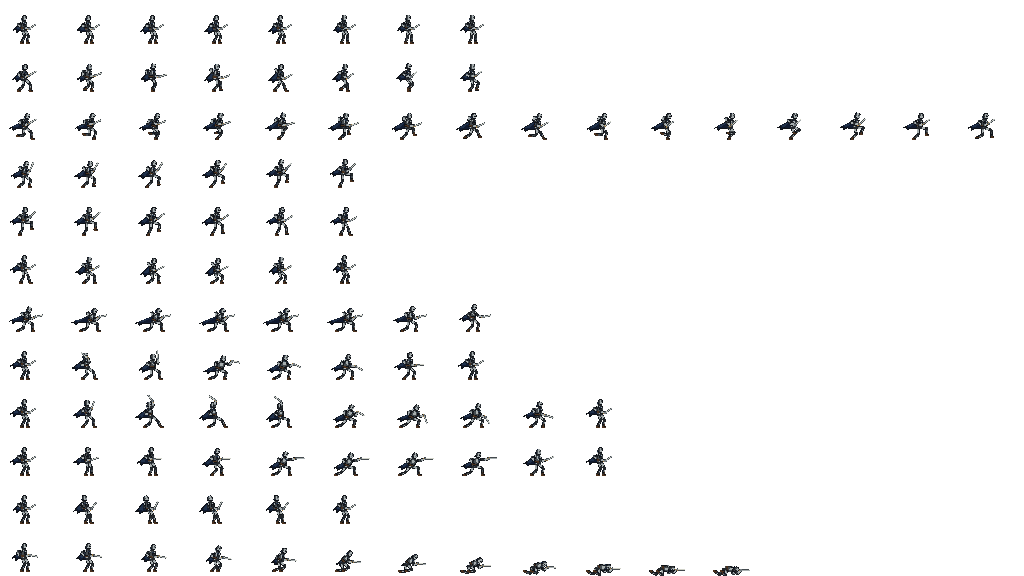
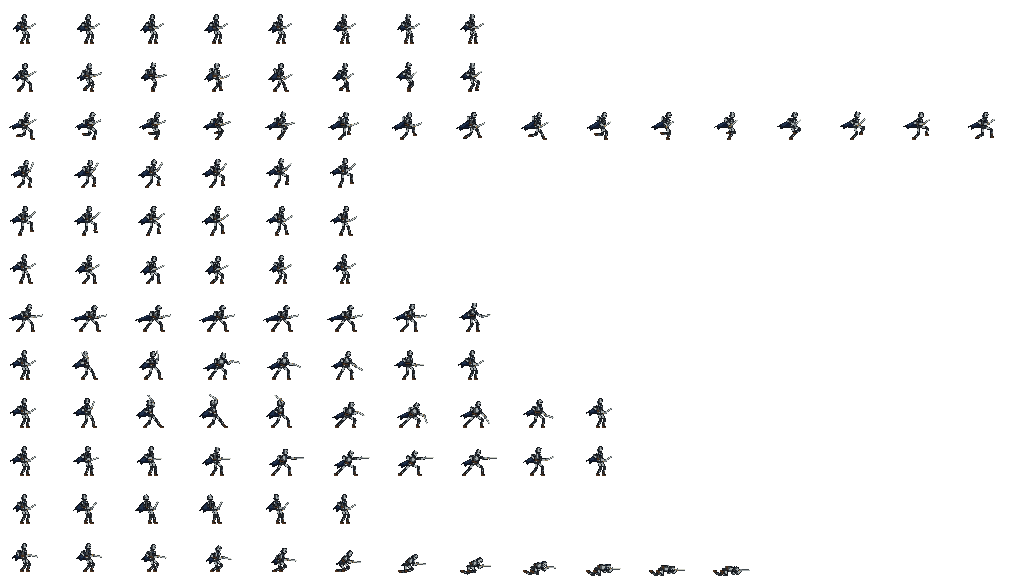
feat: add blade-aligned pixel sword trails and straighter knight legs

diff --git a/Tools/bake_knight_motion.py b/Tools/bake_knight_motion.py
@@ -13,6 +13,7 @@ import tempfile
 ROOT=Path(__file__).resolve().parents[1]
 ART=ROOT/'Art/knight/rig'
 OUT=ROOT/'Assets/Resources/Eclipse/knight_motion.png'
+LEG_BONE=7.5
 CLIPS=[('idle',0,8,.96),('walk',16,8,.60),('run',32,16,.428571),('jump',48,6,.52),('fall',64,6,.65),('land',80,6,.12),('dash',96,8,.15),('weak_slash',112,8,.23),('strong_slash',128,10,.34),('thrust',144,10,.42),('hurt',160,6,.23),('death',176,12,.90)]
 PALETTE=['#101318','#23272b','#444a4e','#737b80','#a8afb0','#d0d2c8','#111b30','#20314a','#32465c','#49301d','#75512c','#a17b40']
 def lerp(a,b,t):return a+(b-a)*t
@@ -34,38 +35,38 @@ def foot(phase,stride,lift,contact=.5):
     return (24+lerp(-stride/2,stride/2,smooth(t)),43-lift*math.sin(math.pi*t))
 
 def pose(name,t):
-    hip=[24.,30.];lean=0.;twist=0.;wind=0.;sword=-35.;near=(29.,29.);far=(22.,27.)
+    hip=[24.,29.];lean=0.;twist=0.;wind=0.;sword=-35.;near=(29.,28.);far=(22.,26.)
     feet=[(21.,43.),(27.,43.)]
     if name=='idle':hip[1]+=.25*math.sin(t*math.tau);wind=.5*math.sin(t*math.tau)
     elif name in ('run','walk'):
         run=name=='run';stride=16 if run else 12;contact=.4 if run else .5
         feet=[foot(t+.5,stride,6 if run else 2,contact),foot(t,stride,6 if run else 2,contact)]
-        hip[1]=(31.7 if run else 30.8)+.35*math.cos(t*math.tau*2)
+        hip[1]=(30.7 if run else 29.8)+.35*math.cos(t*math.tau*2)
         if run:hip[0]+=.6+1.5*math.sin(t*math.tau*2)
         lean=(12 if run else 4)+2*math.sin(t*math.tau*2);twist=.65*math.sin(t*math.tau);wind=6 if run else 1
         near=(29+2*math.sin(t*math.tau),29-1.5*math.cos(t*math.tau));far=(21-2*math.sin(t*math.tau),27+2*math.cos(t*math.tau));sword=-30+12*math.sin(t*math.tau)
     elif name in ('jump','fall'):
         if name=='jump':
             # Push off with the trailing leg long; only the leading knee lifts.
-            hip[1]=lerp(32,30,t);feet=[(lerp(18,19,t),43),(lerp(29,31,t),lerp(43,37,t))]
+            hip[1]=lerp(31,29,t);feet=[(lerp(18,19,t),43),(lerp(29,31,t),lerp(43,39,t))]
             lean=lerp(12,5,t);near=(30,lerp(26,25,t));sword=lerp(-65,-45,t)
         else:
             # Continue the apex silhouette, then reach for a wide landing.
-            feet=[(lerp(19,20,t),43),(lerp(31,30,t),lerp(37,43,t))]
+            feet=[(lerp(19,20,t),43),(lerp(31,30,t),lerp(39,43,t))]
             lean=lerp(5,10,t);near=(30,lerp(25,29,t));sword=lerp(-45,-30,t)
         wind=4;far=(22,27)
     elif name=='land':
-        squash=math.sin(math.pi*t);hip[1]+=3*squash;lean=10*squash;wind=3*(1-t);near=(29,29+squash)
+        squash=math.sin(math.pi*t);hip[1]+=2*squash;lean=10*squash;wind=3*(1-t);near=(29,28+squash)
         feet=[(lerp(20,21,smooth(t))-squash,43),(lerp(30,27,smooth(t))+squash,43)];sword=-35+10*squash
     elif name=='dash':
         drive=sample([(0,.75),(.16,1),(.72,1),(1,.3)],t)
-        hip=[24+2*drive,30+4*drive];lean=24*drive;wind=11*drive
+        hip=[24+2*drive,29+2*drive];lean=24*drive;wind=11*drive
         feet=[(lerp(21,16,drive),43),(lerp(27,34,drive),43)];near=(35,29);far=(24,29);sword=-12
     elif name in ('weak_slash','strong_slash','thrust'):
         if name=='weak_slash':
             weight=sample([(0,0),(.2,1),(.65,1),(1,0)],t)
             hip[0]+=sample([(0,0),(.18,-1),(.43,3),(.68,2),(1,0)],t)
-            hip[1]+=sample([(0,0),(.18,2),(.43,4),(.68,3),(1,0)],t)
+            hip[1]+=sample([(0,0),(.18,1),(.43,2),(.68,1),(1,0)],t)
             lean=sample([(0,0),(.18,-8),(.43,18),(.68,10),(1,0)],t)
             twist=sample([(0,0),(.18,-1.3),(.43,1.5),(.68,.8),(1,0)],t)
             near=(sample([(0,29),(.18,23),(.43,40),(.68,36),(1,29)],t),sample([(0,29),(.18,21),(.43,25),(.68,30),(1,29)],t))
@@ -74,7 +75,7 @@ def pose(name,t):
         elif name=='strong_slash':
             weight=sample([(0,0),(.22,1),(.8,1),(1,0)],t)
             hip[0]+=sample([(0,0),(.30,-1),(.61,4),(.8,3),(1,0)],t)
-            hip[1]+=sample([(0,0),(.30,3),(.61,5),(.8,4),(1,0)],t)
+            hip[1]+=sample([(0,0),(.30,1),(.61,3),(.8,2),(1,0)],t)
             lean=sample([(0,0),(.30,-10),(.42,-10),(.61,24),(.8,14),(1,0)],t)
             twist=sample([(0,0),(.30,-1.4),(.61,1.6),(.8,1),(1,0)],t)
             near=(sample([(0,29),(.30,24),(.42,24),(.61,41),(.8,37),(1,29)],t),sample([(0,29),(.30,15),(.42,15),(.61,31),(.8,33),(1,29)],t))
@@ -83,7 +84,7 @@ def pose(name,t):
         else:
             drive=sample([(0,0),(.24,0),(.52,1),(.72,1),(1,0)],t)
             hip[0]+=sample([(0,0),(.24,-1),(.52,3),(.72,3),(1,0)],t)
-            hip[1]+=5*drive;lean=18*drive;twist=.7*drive
+            hip[1]+=3*drive;lean=18*drive;twist=.7*drive
             near=(sample([(0,29),(.24,25),(.52,44.5),(.72,44.5),(1,29)],t),sample([(0,29),(.24,27),(.52,26),(.72,26),(1,29)],t));sword=sample([(0,-35),(.24,0),(.52,0),(.72,0),(1,-35)],t)
             feet=[(lerp(21,15,drive),43),(lerp(27,35,drive),43)]
         wind=3+3*max(0,twist);far=(hip[0]-2-twist*.5,hip[1]-3)
@@ -92,6 +93,10 @@ def pose(name,t):
     elif name=='death':
         d=smooth(t);hip=[24-3*d,30+11*d];lean=90*d;feet=[(lerp(21,10,d),43),(lerp(27,17,d),43)]
         near=(lerp(30,37,d),lerp(27,42,d));far=(lerp(20,32,d),lerp(28,42,d));wind=1-d;sword=12*(1-d)
+    # Keep planted feet connected while straightening the legs as far as their reach allows.
+    for index,ankle in enumerate(feet):
+        dx=ankle[0]-hip[0]-(-1 if index==0 else 1)
+        hip[1]=max(hip[1],ankle[1]-math.sqrt(max(0,(2*LEG_BONE)**2-dx*dx)))
     angle=math.radians(lean);chest=(hip[0]+math.sin(angle)*8+twist*.4,hip[1]-math.cos(angle)*8)
     head=(chest[0]+math.sin(angle)*3,chest[1]-math.cos(angle)*4)
     shoulder=(chest[0]+1+twist*1.3,chest[1]+1-abs(twist)*.4)
@@ -117,7 +122,7 @@ def svg_frame(p):
     parts.append('<polygon points="'+' '.join(f'{x:.2f},{y:.2f}' for x,y in points)+'" fill="#111b30" stroke="#101318" stroke-width="1"/>')
     parts.append(f'<path d="M{c[0]-4:.2f},{c[1]+2:.2f} L{tailx:.2f},{taily-4:.2f} L{tailx+4:.2f},{taily-3:.2f} L{c[0]-2:.2f},{c[1]+1:.2f} Z" fill="#20314a"/>')
     def leg(index):
-        hip=(h[0]+(-1 if index==0 else 1),h[1]);ankle=p['feet'][index];knee=ik(hip,ankle,7,7)
+        hip=(h[0]+(-1 if index==0 else 1),h[1]);ankle=p['feet'][index];knee=ik(hip,ankle,LEG_BONE,LEG_BONE)
         return joint(hip)+segment('forearm',hip,knee,3)+joint(knee)+segment('shin',knee,ankle,3)+image('boot',ankle[0]-2,ankle[1]-1,5,2)
     parts.append(leg(0));fs=(c[0]-2,c[1]+1);elbow=ik(fs,p['far'],5,5,-1)
     parts.append(segment('upper_arm',fs,elbow,2.8)+segment('forearm',elbow,p['far'],2.8))
@@ -129,6 +134,53 @@ def svg_frame(p):
     return '<svg xmlns="http://www.w3.org/2000/svg" xmlns:xlink="http://www.w3.org/1999/xlink" width="64" height="48" viewBox="0 0 64 48">'+''.join(parts).replace('href=','xlink:href=')+'</svg>'
 
 def run(*args):subprocess.run(['convert',*map(str,args)],check=True,stdout=subprocess.DEVNULL)
+def trail_mask(name,t):
+    """Separate pixel ribbon swept from the exact sword poses used by the actor."""
+    from PIL import Image,ImageDraw
+    im=Image.new('L',(128,96));d=ImageDraw.Draw(im);ox,oy=32,24
+    begin,end,stop={'weak_slash':(.20,.50,.80),'strong_slash':(.43,.66,.88),'thrust':(.36,.63,.85)}.get(name,(1,1,0))
+    if not begin<t<stop:return im,0
+    fade=round(255*(1-smooth(max(0,(t-end)/(stop-end))))) if t>end else 255
+    tip_time=min(t,end)
+    def point(p,length):
+        a=math.radians(p['sword']);return (round(ox+p['near'][0]+length*math.cos(a)),round(oy+p['near'][1]+length*math.sin(a)))
+    if name=='thrust':
+        p=pose(name,tip_time);x,y=point(p,9);extension=3+9*smooth((tip_time-begin)/(end-begin))
+        d.polygon([(x-3,y-2),(x+extension-3,y-2),(x+extension+2,y),(x+extension-3,y+2),(x-3,y+2)],fill=1)
+        d.polygon([(x-2,y-1),(x+extension-2,y-1),(x+extension,y),(x+extension-2,y+1),(x-2,y+1)],fill=2)
+        d.line([(x-1,y),(round(x+extension-1),y)],fill=3,width=1)
+    else:
+        start=max(begin,tip_time-(.18 if name=='weak_slash' else .20))
+        inner,outer=(7.5,10) if name=='weak_slash' else (5.5,10.5)
+        previous=pose(name,start)
+        for i in range(1,33):
+            p=pose(name,lerp(start,tip_time,i/32));shade=1 if i<14 else 2 if i<28 else 3
+            d.polygon([point(previous,inner),point(previous,outer),point(p,outer),point(p,inner)],fill=shade)
+            previous=p
+    return im,fade
+
+def bake_trails(metadata,review):
+    from PIL import Image
+    spans=[];frames=[(0,0,0)]*192;atlas=Image.new('RGBA',(128*16,96*12))
+    palette=[(0,0,0,0),(54,93,112,95),(123,164,173,165),(220,231,219,235)]
+    for clip in metadata:
+        if clip['name'] not in ('weak_slash','strong_slash','thrust'):continue
+        for i in range(clip['count']):
+            mask,alpha=trail_mask(clip['name'],i/(clip['count']-1));start=len(spans)
+            for y in range(mask.height):
+                x=0
+                while x<mask.width:
+                    shade=mask.getpixel((x,y));right=x+1
+                    while right<mask.width and mask.getpixel((right,y))==shade:right+=1
+                    if shade:spans.append((x-32,y-24,right-x,shade))
+                    x=right
+            index=clip['start']+i;frames[index]=(start,len(spans)-start,alpha)
+            rgba=Image.new('RGBA',mask.size);rgba.putdata([(*palette[v][:3],round(palette[v][3]*alpha/255)) for v in mask.get_flattened_data()]);atlas.paste(rgba,(index%16*128,index//16*96))
+    header='#pragma once\nnamespace eclipse {\nstruct SwordTrailSpan{int x,y,width,shade;};\nstruct SwordTrailFrame{int start,count,alpha;};\nconstexpr SwordTrailFrame swordTrailFrames[]={\n'
+    header+=''.join('{%d,%d,%d},'%v+('\n' if i%8==7 else '') for i,v in enumerate(frames))+'};\nconstexpr SwordTrailSpan swordTrailSpans[]={\n'
+    header+=''.join('{%d,%d,%d,%d},'%v+('\n' if i%6==5 else '') for i,v in enumerate(spans))+'};\n}\n'
+    (ROOT/'native-engine/src/sword_trails.hpp').write_text(header);atlas.save(review/'sword_fx.png')
+    print('Baked separate sword trails:',len(spans),'pixel spans.')
 def bake():
     import cairosvg
     for name in ('helmet','torso','upper_arm','forearm','shin','boot','sword'):
@@ -164,9 +216,10 @@ def bake():
     header+=''.join('    {%d,%d,%.6ff,%.6ff,%.6ff},\n'%(*mapping[n][1:],{'weak_slash':.43,'strong_slash':.61,'thrust':.52}.get(n,.5),{'run':120,'walk':72}.get(n,0)) for n in states)
     header+='};\nconstexpr int motionWidth=64,motionHeight=48,motionColumns=16,motionRows=12,motionPivotX=24,motionPivotY=44;\n}\n'
     (ROOT/'native-engine/src/motion.hpp').write_text(header)
+    bake_trails(metadata,review)
     inputs=[Path(__file__).resolve(),*sorted(ART.glob('*.png'))]
     digest=lambda p:hashlib.sha256(p.read_bytes()).hexdigest()
-    stamp={'inputs':{str(p.relative_to(ROOT)):digest(p) for p in inputs},'outputs':{str(p.relative_to(ROOT)):digest(p) for p in [OUT,ROOT/'native-engine/src/motion.hpp']}}
+    stamp={'inputs':{str(p.relative_to(ROOT)):digest(p) for p in inputs},'outputs':{str(p.relative_to(ROOT)):digest(p) for p in [OUT,ROOT/'native-engine/src/motion.hpp',ROOT/'native-engine/src/sword_trails.hpp']}}
     (ART/'build.json').write_text(json.dumps(stamp,indent=2)+'\n')
     print('Baked 104 motion frames, 12 clips, 1024x576 atlas.')
 

diff --git a/native-engine/src/sword_trails.hpp b/native-engine/src/sword_trails.hpp
@@ -1,0 +1,72 @@
+#pragma once
+namespace eclipse {
+struct SwordTrailSpan{int x,y,width,shade;};
+struct SwordTrailFrame{int start,count,alpha;};
+constexpr SwordTrailFrame swordTrailFrames[]={
+{0,0,0},{0,0,0},{0,0,0},{0,0,0},{0,0,0},{0,0,0},{0,0,0},{0,0,0},
+{0,0,0},{0,0,0},{0,0,0},{0,0,0},{0,0,0},{0,0,0},{0,0,0},{0,0,0},
+{0,0,0},{0,0,0},{0,0,0},{0,0,0},{0,0,0},{0,0,0},{0,0,0},{0,0,0},
+{0,0,0},{0,0,0},{0,0,0},{0,0,0},{0,0,0},{0,0,0},{0,0,0},{0,0,0},
+{0,0,0},{0,0,0},{0,0,0},{0,0,0},{0,0,0},{0,0,0},{0,0,0},{0,0,0},
+{0,0,0},{0,0,0},{0,0,0},{0,0,0},{0,0,0},{0,0,0},{0,0,0},{0,0,0},
+{0,0,0},{0,0,0},{0,0,0},{0,0,0},{0,0,0},{0,0,0},{0,0,0},{0,0,0},
+{0,0,0},{0,0,0},{0,0,0},{0,0,0},{0,0,0},{0,0,0},{0,0,0},{0,0,0},
+{0,0,0},{0,0,0},{0,0,0},{0,0,0},{0,0,0},{0,0,0},{0,0,0},{0,0,0},
+{0,0,0},{0,0,0},{0,0,0},{0,0,0},{0,0,0},{0,0,0},{0,0,0},{0,0,0},
+{0,0,0},{0,0,0},{0,0,0},{0,0,0},{0,0,0},{0,0,0},{0,0,0},{0,0,0},
+{0,0,0},{0,0,0},{0,0,0},{0,0,0},{0,0,0},{0,0,0},{0,0,0},{0,0,0},
+{0,0,0},{0,0,0},{0,0,0},{0,0,0},{0,0,0},{0,0,0},{0,0,0},{0,0,0},
+{0,0,0},{0,0,0},{0,0,0},{0,0,0},{0,0,0},{0,0,0},{0,0,0},{0,0,0},
+{0,0,0},{0,0,0},{0,12,255},{12,20,255},{32,17,219},{49,17,51},{66,0,0},{66,0,0},
+{0,0,0},{0,0,0},{0,0,0},{0,0,0},{0,0,0},{0,0,0},{0,0,0},{0,0,0},
+{66,0,0},{66,0,0},{66,0,0},{66,0,0},{66,8,255},{74,31,255},{105,39,254},{144,39,114},
+{183,0,0},{183,0,0},{0,0,0},{0,0,0},{0,0,0},{0,0,0},{0,0,0},{0,0,0},
+{183,0,0},{183,0,0},{183,0,0},{183,0,0},{183,13,255},{196,13,255},{209,13,236},{222,13,64},
+{235,0,0},{235,0,0},{0,0,0},{0,0,0},{0,0,0},{0,0,0},{0,0,0},{0,0,0},
+{0,0,0},{0,0,0},{0,0,0},{0,0,0},{0,0,0},{0,0,0},{0,0,0},{0,0,0},
+{0,0,0},{0,0,0},{0,0,0},{0,0,0},{0,0,0},{0,0,0},{0,0,0},{0,0,0},
+{0,0,0},{0,0,0},{0,0,0},{0,0,0},{0,0,0},{0,0,0},{0,0,0},{0,0,0},
+{0,0,0},{0,0,0},{0,0,0},{0,0,0},{0,0,0},{0,0,0},{0,0,0},{0,0,0},
+};
+constexpr SwordTrailSpan swordTrailSpans[]={
+{27,12,3,3},{20,13,6,2},{26,13,4,3},{18,14,8,2},{26,14,4,3},{16,15,3,1},
+{19,15,7,2},{26,15,4,3},{14,16,6,1},{20,16,3,2},{16,17,4,1},{17,18,1,1},
+{27,12,3,1},{21,13,13,1},{21,14,16,1},{22,15,17,1},{39,15,1,2},{22,16,1,1},
+{33,16,6,1},{39,16,2,2},{36,17,2,1},{38,17,5,2},{39,18,6,2},{41,19,5,2},
+{42,20,5,2},{43,21,4,2},{44,22,4,2},{45,23,4,2},{46,24,3,2},{46,25,4,2},
+{47,26,3,3},{47,27,4,3},{39,15,1,1},{38,16,4,1},{37,17,6,1},{38,18,6,1},
+{40,19,5,1},{41,20,5,1},{43,21,4,1},{44,22,4,1},{45,23,4,1},{45,24,4,1},
+{46,25,4,2},{47,26,4,2},{47,27,2,3},{49,27,2,2},{46,28,4,3},{50,28,1,2},
+{48,29,2,3},{39,15,1,1},{38,16,4,1},{37,17,6,1},{38,18,6,1},{40,19,5,1},
+{41,20,5,1},{43,21,4,1},{44,22,4,1},{45,23,4,1},{45,24,4,1},{46,25,4,2},
+{47,26,4,2},{47,27,2,3},{49,27,2,2},{46,28,4,3},{50,28,1,2},{48,29,2,3},
+{15,10,1,2},{16,10,1,3},{16,11,1,1},{17,11,1,3},{18,12,1,2},{19,12,1,3},
+{19,13,1,2},{20,13,1,3},{21,8,5,1},{17,9,9,1},{26,9,5,2},{15,10,11,1},
+{26,10,6,2},{16,11,11,1},{27,11,7,2},{18,12,9,1},{27,12,9,2},{19,13,8,1},
+{27,13,11,2},{28,14,11,2},{31,15,10,2},{33,16,8,2},{34,17,8,2},{35,18,8,2},
+{36,19,7,2},{37,20,7,2},{38,21,6,2},{39,22,6,2},{40,23,6,2},{40,24,6,2},
+{41,25,6,3},{41,26,6,3},{42,27,5,3},{42,28,6,3},{42,29,6,3},{42,30,6,3},
+{44,31,4,3},{45,32,3,3},{47,33,1,3},{21,8,6,1},{19,9,10,1},{20,10,12,1},
+{21,11,14,1},{22,12,15,1},{23,13,15,1},{28,14,12,1},{30,15,11,1},{32,16,9,1},
+{34,17,8,1},{35,18,8,1},{36,19,8,1},{37,20,7,1},{38,21,7,1},{39,22,6,1},
+{40,23,6,1},{41,24,5,1},{41,25,6,1},{41,26,6,1},{41,27,6,2},{42,28,5,2},
+{42,29,6,2},{42,30,6,2},{43,31,5,2},{43,32,5,2},{43,33,5,2},{43,34,5,2},
+{43,35,4,2},{42,36,1,3},{43,36,4,2},{42,37,1,3},{43,37,4,2},{43,38,1,3},
+{44,38,3,2},{43,39,1,3},{44,39,2,2},{44,40,1,3},{45,40,1,2},{44,41,1,3},
+{21,8,6,1},{19,9,10,1},{20,10,12,1},{21,11,14,1},{22,12,15,1},{23,13,15,1},
+{28,14,12,1},{30,15,11,1},{32,16,9,1},{34,17,8,1},{35,18,8,1},{36,19,8,1},
+{37,20,7,1},{38,21,7,1},{39,22,6,1},{40,23,6,1},{41,24,5,1},{41,25,6,1},
+{41,26,6,1},{41,27,6,2},{42,28,5,2},{42,29,6,2},{42,30,6,2},{43,31,5,2},
+{43,32,5,2},{43,33,5,2},{43,34,5,2},{43,35,4,2},{42,36,1,3},{43,36,4,2},
+{42,37,1,3},{43,37,4,2},{43,38,1,3},{44,38,3,2},{43,39,1,3},{44,39,2,2},
+{44,40,1,3},{45,40,1,2},{44,41,1,3},{46,24,6,1},{46,25,1,1},{47,25,6,2},
+{53,25,1,1},{46,26,1,1},{47,26,1,2},{48,26,6,3},{54,26,1,2},{55,26,2,1},
+{46,27,1,1},{47,27,6,2},{53,27,1,1},{46,28,6,1},{47,24,11,1},{47,25,1,1},
+{48,25,11,2},{59,25,1,1},{47,26,1,1},{48,26,1,2},{49,26,11,3},{60,26,1,2},
+{61,26,2,1},{47,27,1,1},{48,27,11,2},{59,27,1,1},{47,28,11,1},{47,24,13,1},
+{47,25,1,1},{48,25,13,2},{61,25,1,1},{47,26,1,1},{48,26,1,2},{49,26,13,3},
+{62,26,1,2},{63,26,2,1},{47,27,1,1},{48,27,13,2},{61,27,1,1},{47,28,13,1},
+{47,24,13,1},{47,25,1,1},{48,25,13,2},{61,25,1,1},{47,26,1,1},{48,26,1,2},
+{49,26,13,3},{62,26,1,2},{63,26,2,1},{47,27,1,1},{48,27,13,2},{61,27,1,1},
+{47,28,13,1},};
+}

diff --git a/native-engine/tools/check_motion.py b/native-engine/tools/check_motion.py
@@ -25,12 +25,15 @@ for clip,stride in [('run',120),('walk',72)]:
         p=b.pose(clip,i/1000)
         for index,foot in enumerate(p['feet']):
             hip=(p['hip'][0]+(-1 if index==0 else 1),p['hip'][1])
-            assert math.dist(hip,foot)<=14.01,(clip,i,'leg overextension')
+            assert math.dist(hip,foot)<=2*b.LEG_BONE+.01,(clip,i,'leg overextension')
 for clip,start,count,duration in b.CLIPS:
     for i in range(count):
         p=b.pose(clip,i/(count if clip in ('idle','walk','run') else count-1))
         assert math.dist(p['shoulder'],p['near'])<=9.801,(clip,i,'right arm overextension')
         assert math.dist((p['chest'][0]-2,p['chest'][1]+1),p['far'])<=9.801,(clip,i,'off-hand arm overextension')
+        for index,foot in enumerate(p['feet']):
+            hip=(p['hip'][0]+(-1 if index==0 else 1),p['hip'][1])
+            assert math.dist(hip,foot)<=2*b.LEG_BONE+.01,(clip,i,'leg overextension')
         # The entire shared sword, including its guard, stays inside its cell.
         angle=math.radians(p['sword'])
         for sx,sy in [(-2,-2),(9,-2),(9,2),(-2,2)]:
@@ -52,14 +55,22 @@ for clip,_,count,_ in b.CLIPS:
     assert max(abs(p['head_roll']-p['lean']) for p in poses)<=4,'Neck breaks the torso line: '+clip
 for clip in ('jump','fall'):
     p=b.pose(clip,1 if clip=='jump' else 0)
-    assert abs(p['feet'][0][1]-p['feet'][1][1])>=5,'Apex tucks both knees together'
-    assert math.dist((p['hip'][0]-1,p['hip'][1]),p['feet'][0])>=13,'Apex lacks a long trailing leg'
+    assert abs(p['feet'][0][1]-p['feet'][1][1])>=3,'Apex tucks both knees together'
+    assert math.dist((p['hip'][0]-1,p['hip'][1]),p['feet'][0])>=14,'Apex lacks a long trailing leg'
 for clip in ('weak_slash','strong_slash'):
     arc=[b.pose(clip,i/1000)['sword'] for i in range(1001)]
     assert max(arc)-min(arc)>=160,'Slash lacks a clear wind-up and follow-through: '+clip
 results['sprint_airborne_fraction']=round(flight,3)
 results['heavy_cut_weight_transfer_design_px']=round(max(p['hip'][0] for p in heavy)-min(p['hip'][0] for p in heavy),3)
 results['thrust_stance_design_px']=round(max(p['feet'][1][0]-p['feet'][0][0] for p in thrust),3)
+for clip,contact in [('weak_slash',.43),('strong_slash',.61),('thrust',.52)]:
+    count=next(c[2] for c in b.CLIPS if c[0]==clip);t=int(count*contact)/(count-1)
+    mask,alpha=b.trail_mask(clip,t);assert mask.getbbox() and alpha>0,(clip,'contact trail missing')
+    p=b.pose(clip,t);angle=math.radians(p['sword']);tip=(32+p['near'][0]+9*math.cos(angle),24+p['near'][1]+9*math.sin(angle))
+    pixels=[(x,y) for y in range(mask.height) for x in range(mask.width) if mask.getpixel((x,y))]
+    assert min(math.dist(tip,pixel) for pixel in pixels)<=2.5,(clip,'trail detached from blade')
+    assert not b.trail_mask(clip,0)[0].getbbox() and not b.trail_mask(clip,1)[0].getbbox(),(clip,'trail remains outside strike')
+results['separate_sword_trails']='3 combos; pixel ribbons follow blade, no extra PNG texture'
 im=Image.open(ROOT/'Assets/Resources/Eclipse/knight_motion.png').convert('RGBA')
 assert im.size==(1024,576),'Atlas dimensions'
 assert set(im.getchannel('A').get_flattened_data())=={0,255},'Soft or missing transparency'

diff --git a/native-engine/src/presentation.hpp b/native-engine/src/presentation.hpp
@@ -4,6 +4,7 @@
 #include <string>
 #include <cstdio>
 #include "core.hpp"
+#include "sword_trails.hpp"
 
 namespace eclipse {
 class Presentation {
@@ -81,6 +82,15 @@ class Presentation {
         disk(x+p.facing*22-offset,y-64,7,0xffb74b,3);
         if(p.attackFlash>0)ring(x+p.facing*16-offset,y-36,40,0xffb74b);
     }
+    void swordTrail(const Player& p,const Animation& a){
+        if(p.health<=0||a.state<4||a.state>6)return;
+        const auto frame=swordTrailFrames[a.frame];
+        constexpr unsigned colors[]={0,0x365d70,0x7ba4ad,0xdce7db};constexpr int alpha[]={0,95,165,235};
+        for(int i=frame.start;i<frame.start+frame.count;++i){const auto s=swordTrailSpans[i];
+            float x=p.facing>0?p.x+(s.x-motionPivotX)*3:p.x-(s.x+s.width-motionPivotX)*3;
+            rect(x-offset,p.y+(s.y-motionPivotY)*3,s.width*3,3,colors[s.shade],static_cast<Uint8>(alpha[s.shade]*frame.alpha/255));
+        }
+    }
     void icon(int texture,int col,int row,float x,float y,float size,bool down){
         SDL_FRect source{col*128.f,row*128.f,128,128},target{x,y,size,size};
         SDL_SetTextureColorMod(textures[texture],down?180:255,down?180:255,down?180:255);SDL_RenderTexture(renderer,textures[texture],&source,&target);
@@ -128,6 +138,7 @@ public:
         forest(g,camera);for(const auto& e:g.enemies)if(!e.dead())enemy(e,g.clock);
         for(const auto& b:g.projectiles){disk(b.x-offset,b.y,b.empowered?14:8,0xf16b32);disk(b.x-offset,b.y,b.empowered?7:4,0xffe7a1);}
         const auto& p=g.player;
+        if(p.form==0)swordTrail(p,a);
         if(p.form==0){SDL_FRect source{static_cast<float>(a.frame%motionColumns*motionWidth),static_cast<float>(a.frame/motionColumns*motionHeight),motionWidth,motionHeight},dest{std::round(p.x-offset-(p.facing>0?motionPivotX:motionWidth-motionPivotX)*3),std::round(p.y-motionPivotY*3),motionWidth*3,motionHeight*3};
             SDL_RenderTextureRotated(renderer,textures[0],&source,&dest,0,nullptr,p.facing>0?SDL_FLIP_NONE:SDL_FLIP_HORIZONTAL);
         }else mage(p);

diff --git a/native-engine/src/main.cpp b/native-engine/src/main.cpp
@@ -64,15 +64,16 @@ int main(int argc,char** argv){
     if(!view->load()){SDL_Log("ECLIPSE asset load failed: %s",SDL_GetError());view.reset();cleanup();return 1;}
     SDL_Log("ECLIPSE ready: five PNG textures, combat scene, 1280x720");
     if(smoke){
-        for(int scene=0;scene<6;++scene){game.restart();if(scene==1){game.player.form=1;game.hit(game.enemies[0],1,false,true);game.hit(game.enemies[0],1,true);}
+        for(int scene=0;scene<8;++scene){game.restart();if(scene==1){game.player.form=1;game.hit(game.enemies[0],1,false,true);game.hit(game.enemies[0],1,true);}
             if(scene==2)game.inventory=true;
             if(scene==3){game.ended=true;game.won=true;}
             if(scene==4){game.ended=true;game.player.health=0;}
-            if(scene==5)game.player.facing=-1;
-            animation.step(game.player,1.f/60);const std::string capture=argc>2?std::string(argv[2])+"/scene-"+std::to_string(scene)+".bmp":"";
+            if(scene==5||scene==7)game.player.facing=-1;
+            if(scene>=6){animation.state=5;animation.frame=134;}
+            else animation.step(game.player,1.f/60);const std::string capture=argc>2?std::string(argv[2])+"/scene-"+std::to_string(scene)+".bmp":"";
             view->draw(game,animation,camera,{},argc>2?capture.c_str():nullptr);
         }
-        SDL_Log("PASS six combat/UI/facing scenes and all five PNG textures");view.reset();cleanup();return 0;
+        SDL_Log("PASS eight combat/UI/facing/trail scenes and all five PNG textures");view.reset();cleanup();return 0;
     }
     if(argc>2&&std::string(argv[1])=="--motion-review"){
         constexpr const char* names[]={"IDLE","RUN","JUMP","FALL","WEAK SLASH","STRONG SLASH","THRUST","DASH","HURT","DEATH","LAND","WALK"};

diff --git a/native-engine/KNIGHT_MOTION.md b/native-engine/KNIGHT_MOTION.md
@@ -17,7 +17,7 @@ The runtime now uses `Assets/Resources/Eclipse/knight_motion.png`: 1024×576 pix
 | 10 | Hurt | 6 |
 | 11 | Death | 12 |
 
-The approved coarse concept supplied the helmet, torso, limb and boot pixels in `Art/knight/rig`. An offline rig assembles these parts with connected dark under-armor, two-bone joint constraints, eased attack poses and a secondary cape shape. One fixed sword PNG is attached to the foreground right hand in every pose, including death. There are no baked sword waves. Palette export retains transparent backgrounds and opaque dark cloth/armor.
+The approved coarse concept supplied the helmet, torso, limb and boot pixels in `Art/knight/rig`. An offline rig assembles these parts with connected dark under-armor, two-bone joint constraints, eased attack poses and a secondary cape shape. One fixed sword PNG is attached to the foreground right hand in every pose, including death. The actor PNG contains no baked sword effects; separate runtime trails are described below. Palette export retains transparent backgrounds and opaque dark cloth/armor.
 
 Runtime run/walk phase uses actual player travel (120/72 world pixels per cycle), including equipment speed. It stops advancing at walls. Rising, falling and landing have separate clips. Attack clips finish their recovery when uninterrupted; the next combo can interrupt recovery after the existing cooldown. Confirmed hit-stop holds the contact pose. Damage amounts, range, gear stats and cooldown values are unchanged.
 
@@ -54,3 +54,11 @@ Ready stance, running, landing and dash now keep the torso and helmet aligned. A
 Weak cut uses a compact high guard and horizontal finish; strong cut raises the blade overhead and cuts diagonally down, with a 0.34-second visual clip and a longer confirmed-hit pause. Basic sword attacks now resolve damage at each clip's contact phase instead of at button-down. This preserves visible anticipation against real targets, which previously jumped directly to the contact frame. Range is checked at contact. Dash, swap, injury, skill and restart cancel a pending basic strike. Damage values and attack cooldowns remain the same; contact timing is intentionally later.
 
 Core regressions cover delayed contact for all three combos, equipment speed, one hit per swing, targets moving into/out of reach, and cancellation without a delayed ghost hit. The previous and revised runtime are rendered with the same review inputs.
+
+## Straighter legs and separate sword trails
+
+Fixed leg bones are now 7.5 design pixels each. Raised hips and less knee compression make idle, locomotion, landing, dash and attacks stand taller. The pelvis only lowers when a planted wide stance would otherwise exceed leg reach. The jump keeps one long trailing leg and a smaller leading-knee lift.
+
+`Tools/bake_knight_motion.py` samples the same wrist positions and sword angles used by each actor frame, then bakes a separate pixel ribbon into `native-engine/src/sword_trails.hpp`. Weak slash has a narrow arc, strong slash a wider overhead-to-downward arc, and thrust a short forward point. Muted steel-blue tails fade behind a pale edge. Rendering uses 3px world cells, mirrors around the same foot pivot as the actor, and draws behind the real sword. The contact frame holds during hit-stop; trails vanish with attack end, cancel, hurt, death or form change.
+
+This adds no PNG texture, shader, projectile, damage or hitbox. Existing five PNG assets are unchanged in count. Geometry checks verify contact-to-blade registration, blank effect frames outside strikes and fixed leg reach. SDL smoke includes left/right heavy-cut trail scenes.
